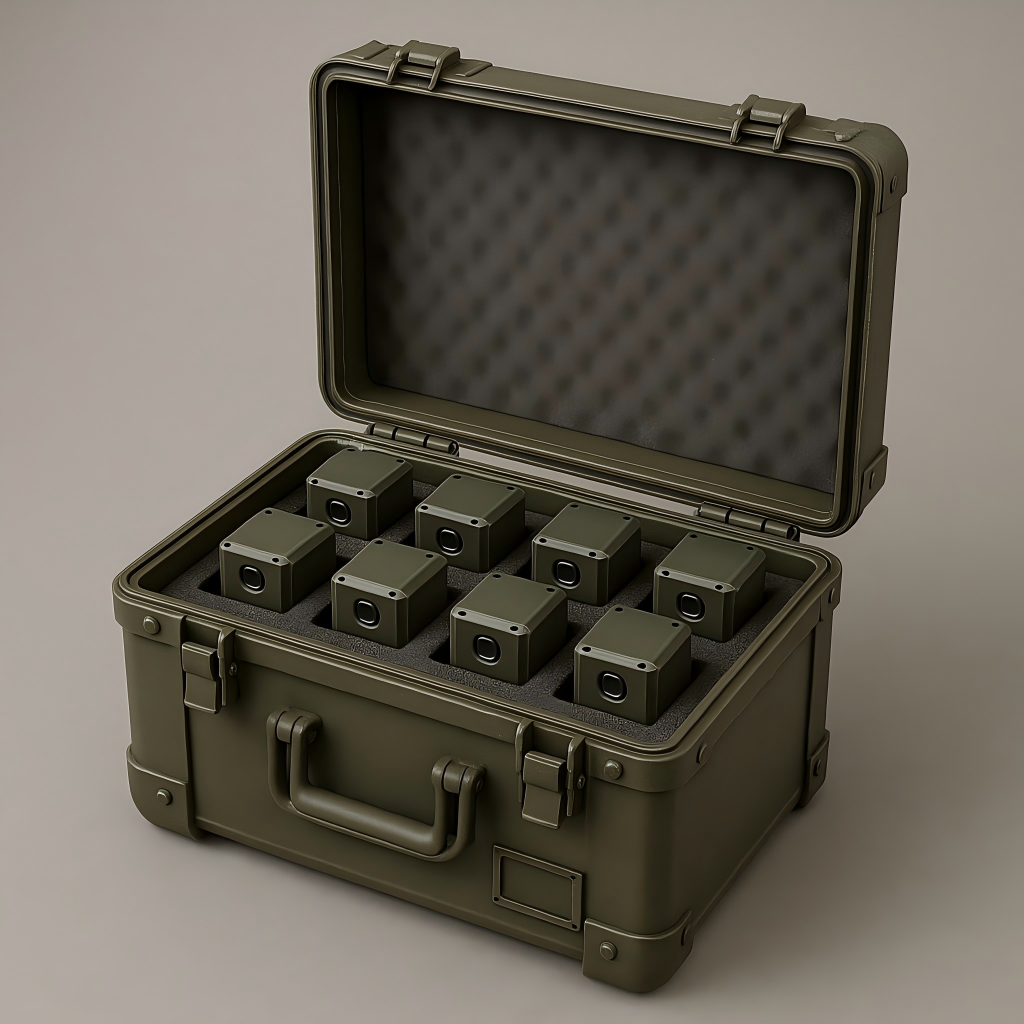
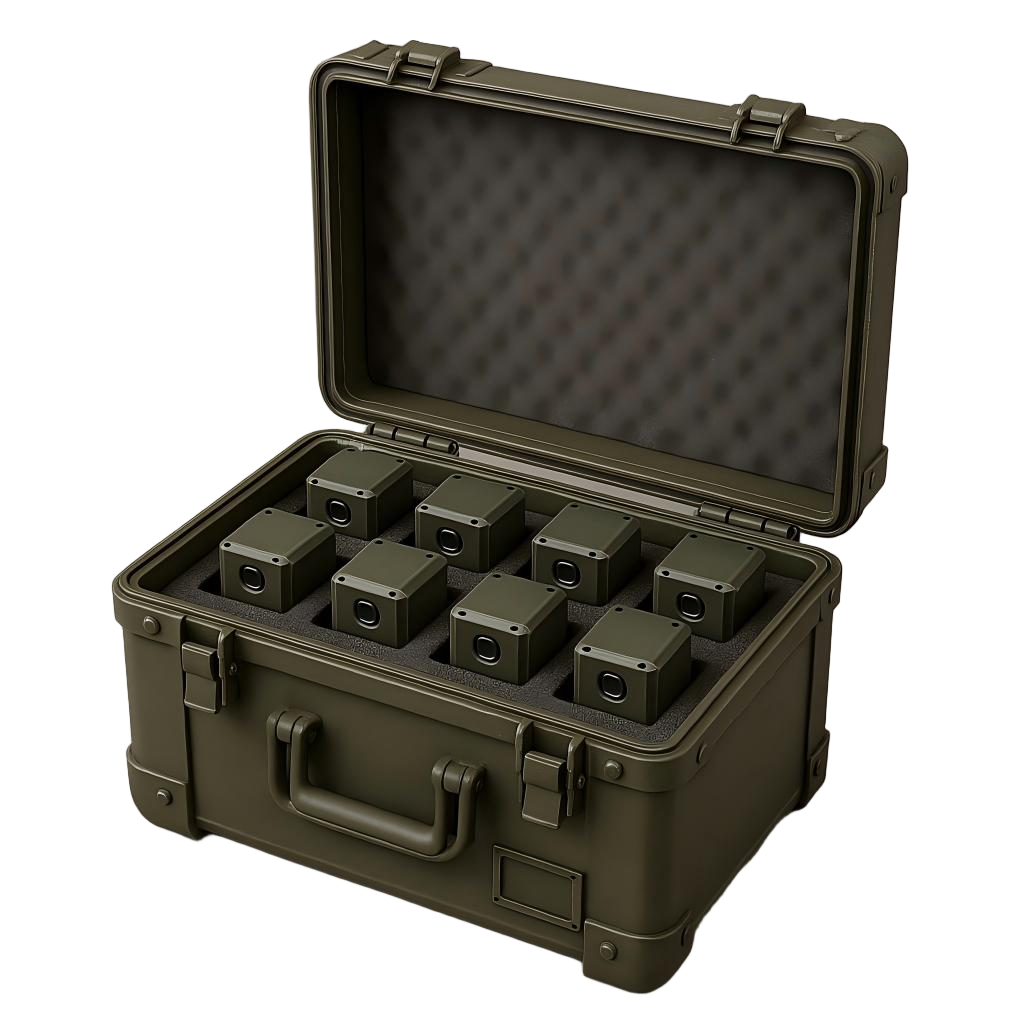
feat: GuardX 1.0.0

diff --git a/src/pages/guardx.tsx b/src/pages/guardx.tsx
@@ -19,7 +19,8 @@ import {
   CheckSquare,
   Rocket,
   Activity,
-  Check
+  Check,
+  Book
 } from 'lucide-react';
 
 // 本地素材导入
@@ -30,6 +31,7 @@ import heroImg4 from '../assets/guard-x/GuardX-04.jpg';
 import heroImg5 from '../assets/guard-x/GuardX-05.jpg';
 
 import boxImg from '../assets/guard-x/guardx-box.png';
+import padImg from '../assets/guard-x/pad.png';
 import moduleImg from '../assets/guard-x/module.png';
 import stoneImg from '../assets/guard-x/bone.png'; // 根据文件夹中的实际命名为 bone.png
 import woodImg from '../assets/guard-x/tree.png';
@@ -327,9 +329,9 @@ export default function ProductLandingPage() {
           </div>
 
           {/* Desktop Layout */}
-          <div className="hidden lg:grid grid-cols-12 gap-6 items-center">
+          <div className="hidden lg:grid grid-cols-12 gap-8 items-center max-w-[1400px] mx-auto">
             {/* Left Features */}
-            <div className="col-span-3 space-y-32 text-right relative">
+            <div className="col-span-2 space-y-40 text-right relative">
               <div className="relative pr-8">
                 <div className="absolute top-1/2 right-0 w-8 h-px bg-emerald-500/50 transform -translate-y-1/2"></div>
                 <div className="w-2 h-2 rounded-full bg-emerald-500 absolute top-1/2 -right-1 transform -translate-y-1/2"></div>
@@ -345,7 +347,7 @@ export default function ProductLandingPage() {
             </div>
 
             {/* Center Image */}
-            <div className="col-span-6 relative z-10">
+            <div className="col-span-8 relative z-10">
               <div className="rounded-2xl overflow-hidden border border-slate-200 dark:border-slate-800 shadow-2xl relative group">
                 <img src={dashboardImg} alt="GuardX 智慧大屏" className="w-full h-auto transform group-hover:scale-[1.02] transition-transform duration-700" />
                 <div className="absolute top-4 right-4 bg-red-500/90 backdrop-blur text-white text-xs px-3 py-1.5 rounded-md font-bold flex items-center gap-2">
@@ -356,7 +358,7 @@ export default function ProductLandingPage() {
             </div>
 
             {/* Right Features */}
-            <div className="col-span-3 space-y-32 text-left relative">
+            <div className="col-span-2 space-y-40 text-left relative">
               <div className="relative pl-8">
                 <div className="absolute top-1/2 left-0 w-8 h-px bg-emerald-500/50 transform -translate-y-1/2"></div>
                 <div className="w-2 h-2 rounded-full bg-emerald-500 absolute top-1/2 -left-1 transform -translate-y-1/2"></div>
@@ -418,6 +420,10 @@ export default function ProductLandingPage() {
             {/* Left Image: GuardX */}
             <div className="absolute inset-0 z-10 transition-all duration-500 ease-in-out" style={{ clipPath: 'polygon(0 0, 55% 0, 45% 100%, 0 100%)' }}>
               <img src={guardxNightImg} alt="全彩夜视" className="absolute inset-0 w-full h-full object-cover transform group-hover:scale-105 transition-transform duration-1000" />
+              {/* Left Timestamp */}
+              <div className="absolute top-4 left-4 md:top-6 md:left-8 font-mono text-emerald-400 font-bold tracking-wider text-sm md:text-base z-20 drop-shadow-[0_2px_2px_rgba(0,0,0,0.8)]">
+                2024-05-27 20:16:32
+              </div>
               <div className="absolute bottom-6 left-6 md:left-12 bg-black/60 backdrop-blur px-6 py-2 rounded-full text-white font-bold border border-white/10 shadow-lg z-20">
                 <span className="bg-gradient-to-r from-emerald-400 to-teal-400 bg-clip-text text-transparent">全彩夜视</span>
               </div>
@@ -426,6 +432,10 @@ export default function ProductLandingPage() {
             {/* Right Image: Traditional */}
             <div className="absolute inset-0 z-0">
               <img src={otherNightImg} alt="普通红外夜视" className="w-full h-full object-cover transform group-hover:scale-105 transition-transform duration-1000" />
+              {/* Right Timestamp */}
+              <div className="absolute top-4 right-4 md:top-6 md:right-8 font-mono text-slate-300 font-bold tracking-wider text-sm md:text-base z-20 drop-shadow-[0_2px_2px_rgba(0,0,0,0.8)]">
+                2024-05-27 20:16:32
+              </div>
               <div className="absolute bottom-6 right-6 md:right-12 bg-black/60 backdrop-blur px-6 py-2 rounded-full text-white font-bold border border-white/10 shadow-lg z-20">
                 <span className="text-slate-300">普通红外夜视</span>
               </div>
@@ -742,61 +752,75 @@ export default function ProductLandingPage() {
             <p className="text-slate-600 dark:text-slate-400">软硬一体，开箱即用的完整作战包</p>
           </div>
 
-          <div className="flex flex-col md:flex-row gap-12 items-center md:items-start justify-center mb-16">
+          <div className="flex flex-col md:flex-row gap-12 md:gap-24 items-center justify-center mb-24">
             {/* Left side: Main device */}
             <div className="flex flex-col items-center">
-              <div className="w-64 h-64 flex items-center justify-center mb-4">
-                <img src={guardxRealImg} alt="GUARDX 设备" className="max-w-full max-h-full object-contain drop-shadow-xl" />
+              <div className="w-64 h-64 md:w-80 md:h-80 flex items-center justify-center mb-4">
+                <img src={guardxRealImg} alt="GUARDX 设备" className="max-w-full max-h-full object-contain drop-shadow-2xl" />
               </div>
-              <p className="text-xl font-medium text-slate-700 dark:text-slate-300">设备 × 10</p>
+              <p className="text-xl font-bold text-slate-700 dark:text-slate-300">设备 × 10</p>
             </div>
 
             {/* Right side: Accessories grid */}
-            <div className="grid grid-cols-2 sm:grid-cols-4 gap-8 sm:gap-12 mt-8 md:mt-0">
-              {/* Box */}
-              <div className="flex flex-col items-center gap-3">
-                <div className="h-20 flex items-end justify-center">
-                  <img src={boxImg} alt="装备箱" className="max-h-full object-contain" />
+            <div className="flex flex-col gap-10 sm:gap-16 mt-8 md:mt-0">
+              {/* Top Row: 3 items */}
+              <div className="grid grid-cols-3 gap-6 sm:gap-12">
+                {/* Box */}
+                <div className="flex flex-col items-center gap-4">
+                  <div className="h-28 w-28 flex items-end justify-center">
+                    <img src={boxImg} alt="装备箱" className="max-h-full max-w-full object-contain drop-shadow-md" />
+                  </div>
+                  <p className="text-base font-medium text-slate-600 dark:text-slate-400">装备箱 × 1</p>
                 </div>
-                <p className="text-sm font-medium text-slate-600 dark:text-slate-400">装备箱 × 1</p>
+                
+                {/* Pad */}
+                <div className="flex flex-col items-center gap-4">
+                  <div className="h-28 w-28 flex items-end justify-center">
+                    <img src={padImg} alt="显控平板" className="max-h-full max-w-full object-contain drop-shadow-md" />
+                  </div>
+                  <p className="text-base font-medium text-slate-600 dark:text-slate-400">显控平板 × 1</p>
+                </div>
+
+                {/* Power line */}
+                <div className="flex flex-col items-center gap-4">
+                  <div className="h-28 w-28 flex items-end justify-center">
+                    <img src={eleLineImg} alt="电源线" className="max-h-full max-w-full object-contain drop-shadow-md" />
+                  </div>
+                  <p className="text-base font-medium text-slate-600 dark:text-slate-400">电源线 × 1</p>
+                </div>
               </div>
 
-              {/* Power line */}
-              <div className="flex flex-col items-center gap-3">
-                <div className="h-20 flex items-end justify-center">
-                  <img src={eleLineImg} alt="电源线" className="max-h-full object-contain" />
+              {/* Bottom Row: 2 items centered */}
+              <div className="flex justify-center gap-16 sm:gap-24">
+                {/* Screws */}
+                <div className="flex flex-col items-center gap-4">
+                  <div className="h-28 w-28 flex items-end justify-center">
+                    <img src={luosiImg} alt="螺丝配件" className="max-h-full max-w-full object-contain drop-shadow-md" />
+                  </div>
+                  <p className="text-base font-medium text-slate-600 dark:text-slate-400">螺丝配件 × 1</p>
                 </div>
-                <p className="text-sm font-medium text-slate-600 dark:text-slate-400">电源线 × 1</p>
-              </div>
 
-              {/* Screws */}
-              <div className="flex flex-col items-center gap-3">
-                <div className="h-20 flex items-end justify-center">
-                  <img src={luosiImg} alt="螺丝配件" className="max-h-full object-contain" />
+                {/* User Guide */}
+                <div className="flex flex-col items-center gap-4">
+                  <div className="h-28 w-28 flex items-end justify-center">
+                    <img src={guardBookImg} alt="用户指南" className="max-h-full max-w-full object-contain shadow-sm" />
+                  </div>
+                  <p className="text-base font-medium text-slate-600 dark:text-slate-400">用户指南 × 1</p>
                 </div>
-                <p className="text-sm font-medium text-slate-600 dark:text-slate-400">螺丝配件 × 1</p>
-              </div>
-
-              {/* User Guide */}
-              <div className="flex flex-col items-center gap-3">
-                <div className="h-20 flex items-end justify-center">
-                  <img src={guardBookImg} alt="用户指南" className="max-h-full object-contain shadow-sm" />
-                </div>
-                <p className="text-sm font-medium text-slate-600 dark:text-slate-400">用户指南 × 1</p>
               </div>
             </div>
           </div>
 
           {/* Bottom section: Mobile notification setting mockup inside wide banner */}
-          <div className="w-full bg-slate-50 dark:bg-slate-900/50 rounded-3xl p-8 border border-slate-200 dark:border-slate-800 flex flex-col md:flex-row items-center justify-between gap-8 overflow-hidden relative">
-            <div className="z-10 text-center md:text-left flex-1 md:pl-8">
-              <p className="text-lg text-slate-700 dark:text-slate-300 font-medium flex items-center justify-center md:justify-start gap-2">
+          <div className="relative max-w-5xl mx-auto mt-32">
+            <div className="w-full bg-slate-100 dark:bg-slate-900/50 rounded-3xl h-24 border border-slate-200 dark:border-slate-800 flex items-center justify-center md:justify-start md:pl-16 shadow-inner">
+              <p className="text-lg md:text-xl text-slate-700 dark:text-slate-300 font-medium flex items-center gap-2">
                 <span className="text-rose-500 font-bold">*</span> 应用外消息推送功能需要开启手机系统通知权限
               </p>
             </div>
             
-            {/* 移动端 APP Mockup (Partially hidden) */}
-            <div className="w-64 h-48 shrink-0 relative z-10 translate-y-12">
+            {/* 移动端 APP Mockup (Overlapping) */}
+            <div className="absolute -bottom-24 right-1/2 translate-x-1/2 md:translate-x-0 md:right-16 w-64 h-64 z-10 hidden sm:block">
               <div className="w-full h-full rounded-t-3xl border-x-[6px] border-t-[6px] border-slate-800 bg-slate-100 overflow-hidden flex flex-col shadow-xl">
                 <div className="h-6 bg-slate-100 w-full flex justify-between items-center px-4 text-[10px] font-medium text-black">
                   <span>13:36</span>
@@ -811,7 +835,7 @@ export default function ProductLandingPage() {
                 <div className="h-10 flex items-center px-2 gap-1 border-b border-slate-200 bg-slate-100">
                   <ChevronRight className="w-4 h-4 rotate-180 text-blue-500" />
                   <span className="text-xs text-blue-500 font-medium">通知</span>
-                  <span className="text-[11px] font-bold text-slate-800 flex-1 text-center pr-10">GuardX 视频</span>
+                  <span className="text-[11px] font-bold text-slate-800 flex-1 text-center pr-10">GuardX 电子哨兵</span>
                 </div>
                 <div className="flex-1 p-3 bg-slate-50">
                   <div className="bg-white px-3 py-2.5 rounded-lg border border-slate-200 flex justify-between items-center mb-3 shadow-sm">
@@ -861,10 +885,8 @@ export default function ProductLandingPage() {
             联系我们的产品专家，获取量身定制的行业部署方案与设备报价清单。
           </p>
           <div className="flex justify-center gap-4">
-            <button className="bg-emerald-600 hover:bg-emerald-500 text-white px-8 py-3 rounded-lg font-semibold transition-all shadow-md">
-              联系我们
-            </button>
-            <button className="px-8 py-3 rounded-lg font-semibold border border-slate-200 dark:border-slate-800 hover:bg-slate-100 dark:hover:bg-slate-900 text-slate-700 dark:text-slate-300 transition-all">
+            <button className="flex items-center justify-center gap-2 bg-emerald-600 hover:bg-emerald-500 text-white px-8 py-3 rounded-lg font-semibold transition-all shadow-md">
+              <Book className="w-6 h-6" />
               下载产品手册
             </button>
           </div>